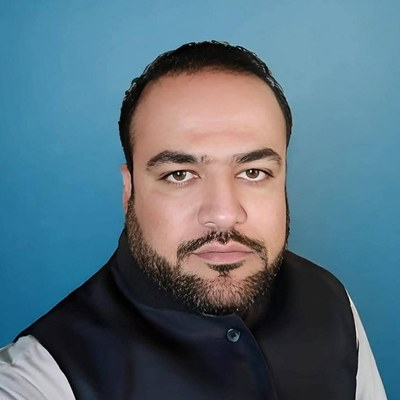
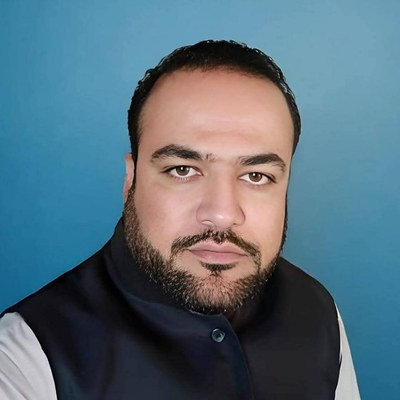
Teacher photo: balance shoulders, center
Claude-Session: https://claude.ai/code/session_01Dhab4QpSuUPBskLYnS97a6

diff --git a/sw.js b/sw.js
@@ -1,6 +1,6 @@
 // AHSA offline cache: always NETWORK-FIRST with HTTP-cache revalidation (no stale pages);
 // the cache is used only when the phone is offline. Bump C on every change.
-const C = 'ahsa-v21';
+const C = 'ahsa-v22';
 self.addEventListener('install', e => { e.waitUntil(caches.open(C).then(c => c.addAll(['./', 'index.html', 'assets/logo.jpg', 'manifest.webmanifest']).catch(() => {}))); self.skipWaiting(); });
 self.addEventListener('activate', e => { e.waitUntil(caches.keys().then(ks => Promise.all(ks.filter(k => k !== C).map(k => caches.delete(k)))).then(() => self.clients.claim())); });
 self.addEventListener('fetch', e => {
